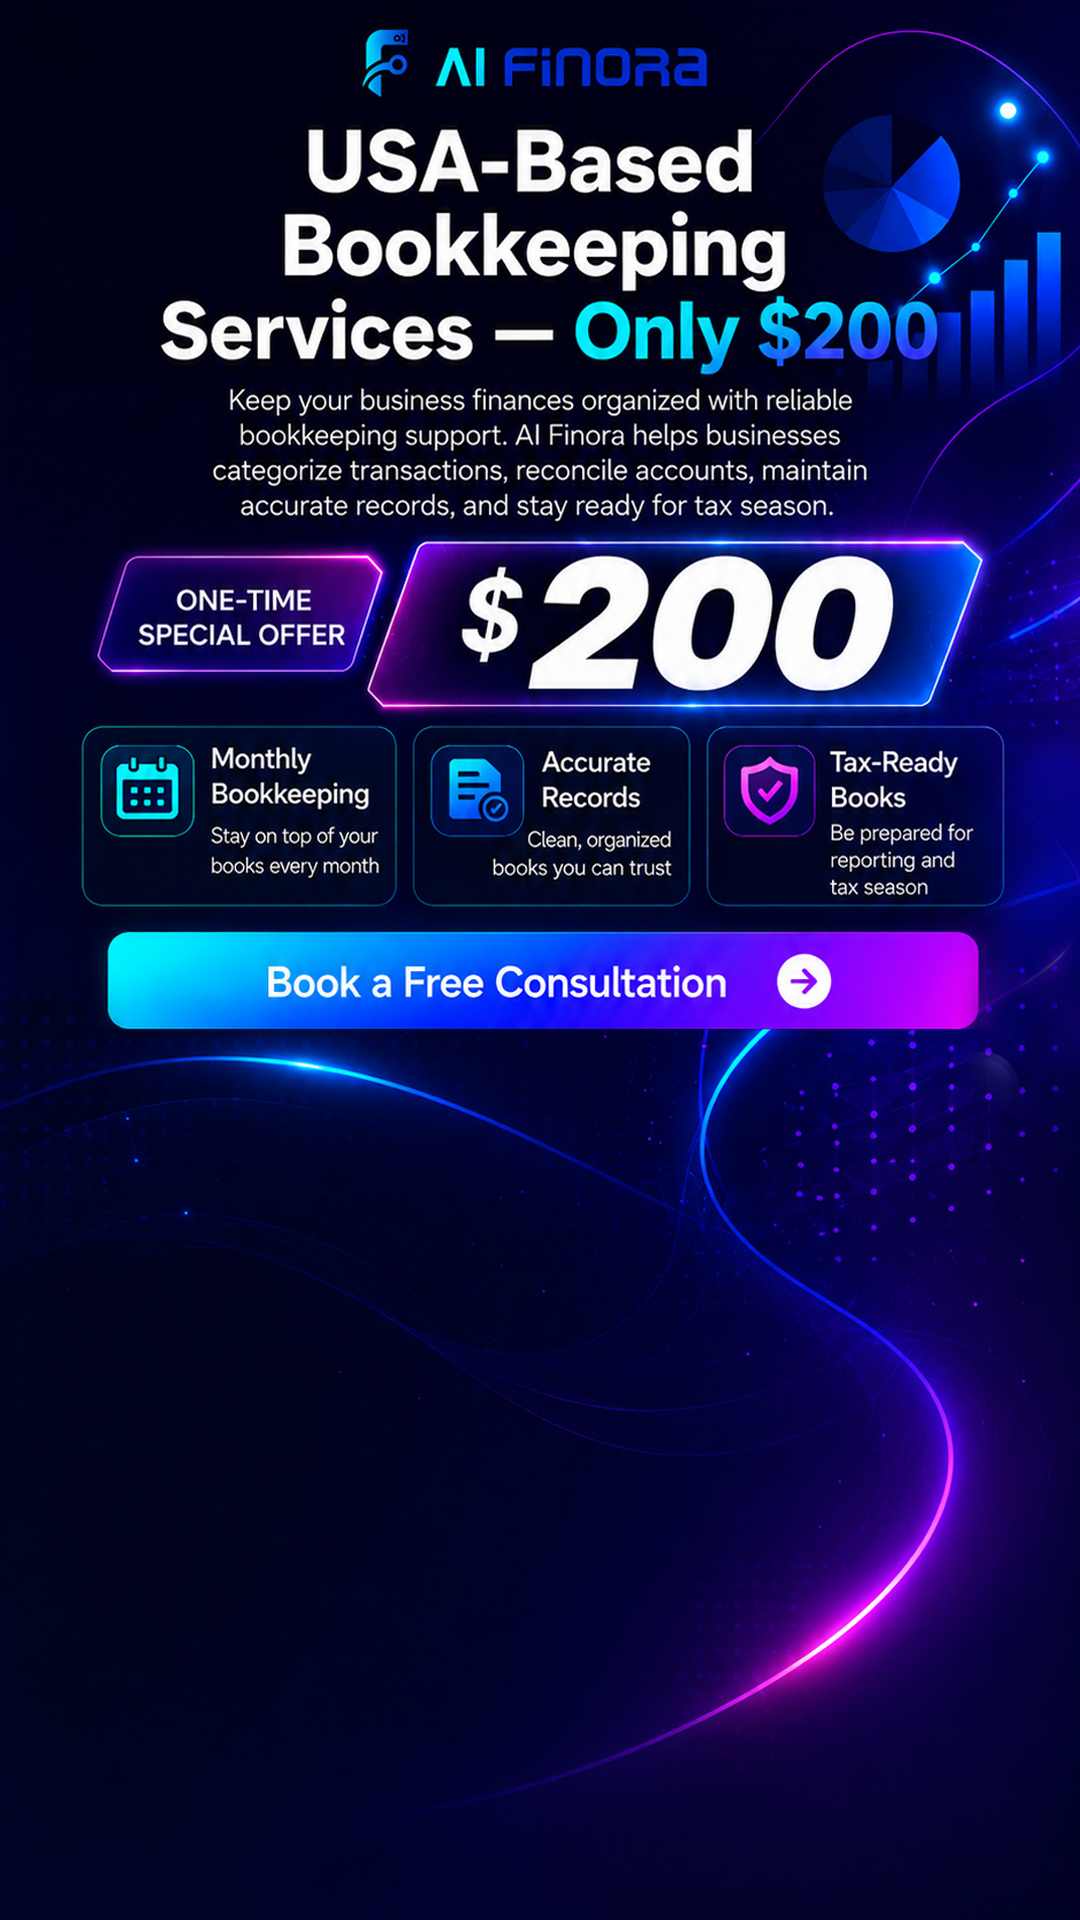
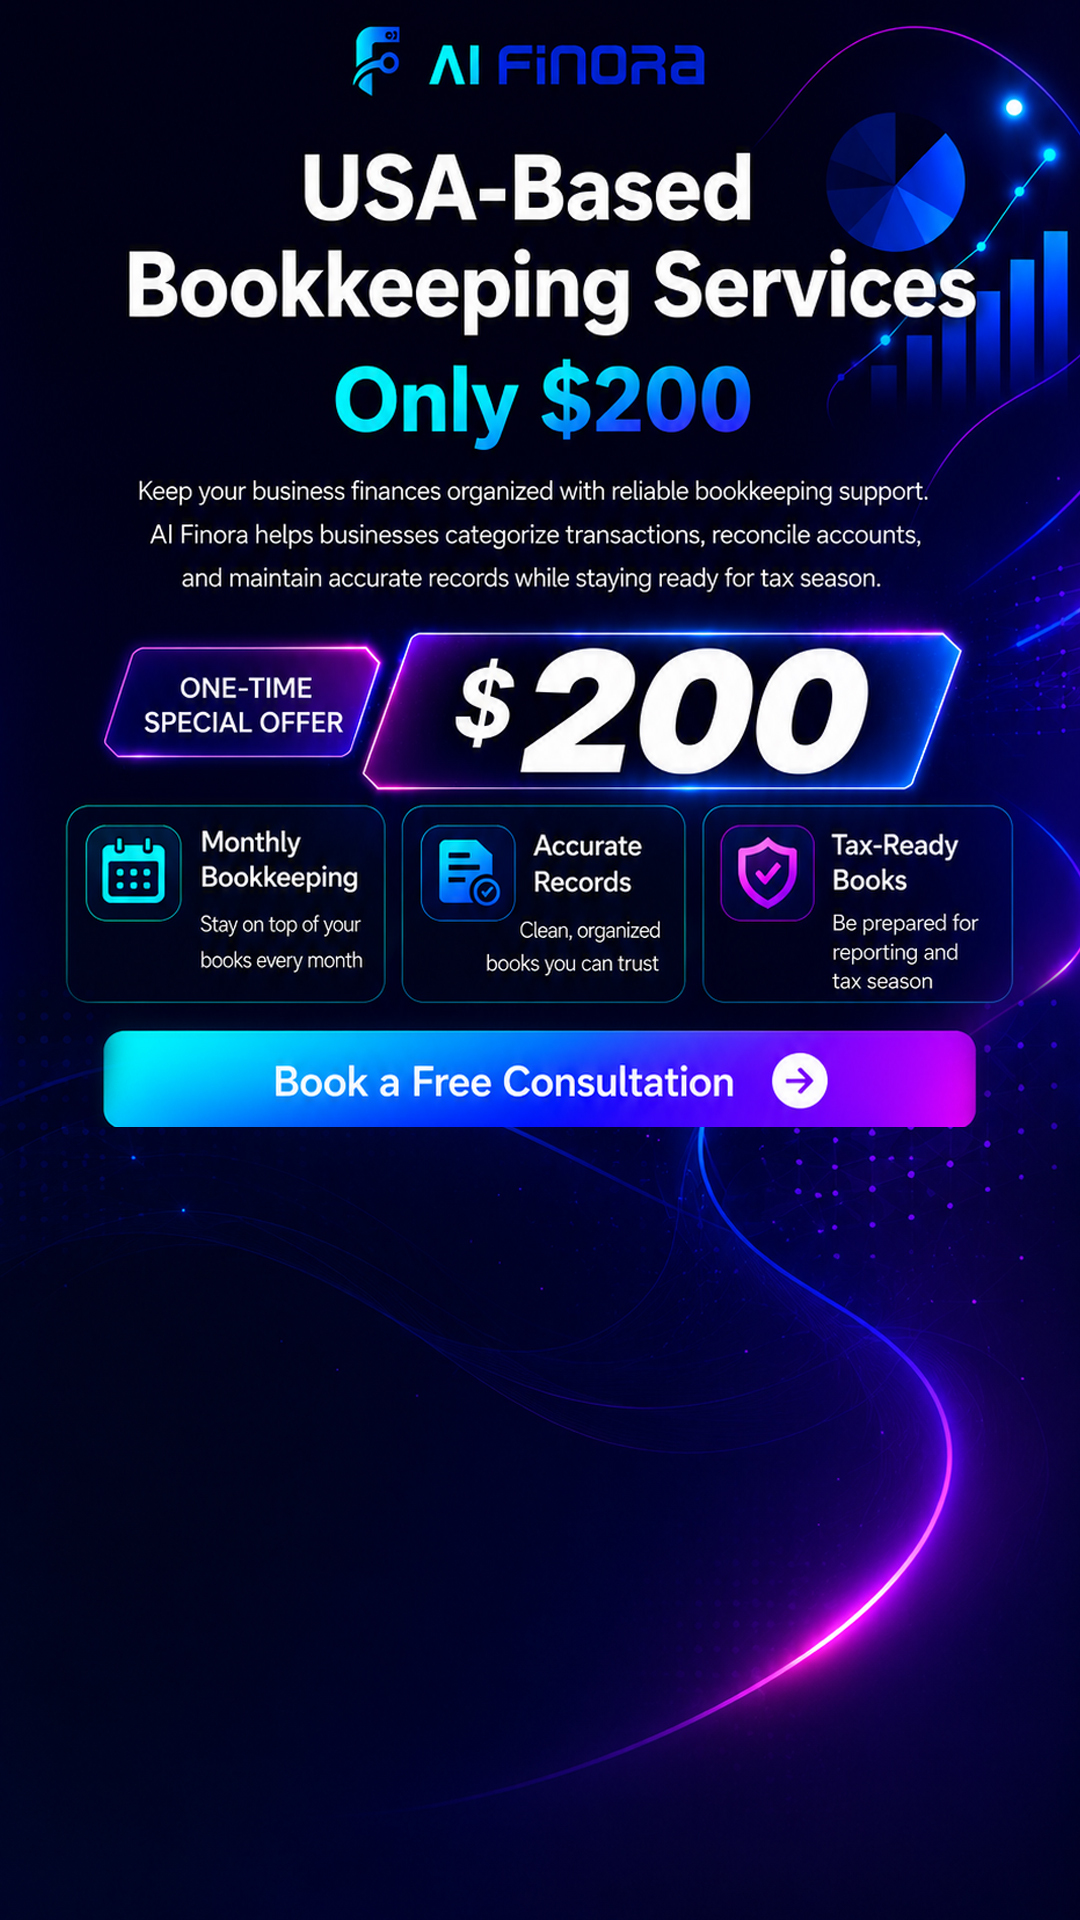
clean

diff --git a/bookkeeping/index.html b/bookkeeping/index.html
@@ -612,7 +612,7 @@ img { max-width: 100%; height: auto; display: block; }
     .hero-form-wrapper { order: 2; max-width: 520px; margin: 1.25rem auto 0; width: calc(100% - 2rem); }
     .benefits-grid { width: 100%; margin-left: 0; grid-template-columns: repeat(2, 1fr); padding: 0; }
     .why-grid { grid-template-columns: repeat(2, 1fr); }
-    .hero-form-wrapper { max-width: 100%; margin: 0 auto; width: 100%; padding-top: 503px; }
+    .hero-form-wrapper { max-width: 100%; margin: 0 auto; width: 100%; padding-top: 524px; }
     .problem-grid { grid-template-columns: repeat(2, 1fr); }
     .two-col-layout { grid-template-columns: 1fr; gap: 2rem; }
     .section-title { font-size: 2.2rem; }